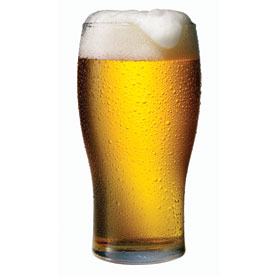
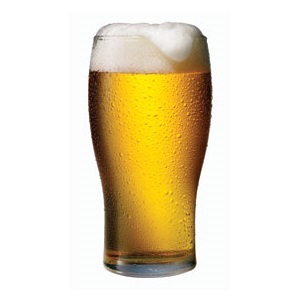
Improve README + Add step 3 + html fix (thumbnail) + resize default image for new beer

diff --git a/step1/index.html b/step1/index.html
@@ -14,32 +14,34 @@
         <input ng-model="query" class="form-control" placeholder="search box">
       </div>
       <div class="row">
-        <beer-thumbnail ng-repeat="aBeer in beerCtrl.beers| filter:query"> </beer-thumbnail>
-        <div class="col-md-4 thumbnail">
+        <beer-thumbnail ng-repeat="aBeer in beerCtrl.beers| filter:query"></beer-thumbnail>
+        <div class="col-md-4">
+          <div class="thumbnail">
             <form name="beerForm" ng-submit="beerForm.$valid && beerCtrl.addOrUpdate(beerCtrl.currentBeer)" novalidate>
               <div class="form-group">
                 <label for="name">Name*</label>
-                <input type="text" class="form-control" id="name" ng-model="beerCtrl.currentBeer.name" required>
+                <input class="form-control" id="name" ng-model="beerCtrl.currentBeer.name" required type="text">
               </div>
               <div class="form-group">
                 <label for="image">Image*</label>
-                <input type="text" class="form-control" id="image" ng-model="beerCtrl.currentBeer.img" required>
+                <input class="form-control" id="image" ng-model="beerCtrl.currentBeer.img" required type="text">
               </div>
               <div class="form-group">
                 <label for="Alcohol">Alcohol*</label>
-                <input type="text" class="form-control" id="Alcohol" ng-model="beerCtrl.currentBeer.alcohol" required>
+                <input class="form-control" id="Alcohol" ng-model="beerCtrl.currentBeer.alcohol" required type="text">
               </div>
               <div class="form-group">
                 <label for="description">Description</label>
                 <textarea class="form-control" ng-model="beerCtrl.currentBeer.description" rows="3"></textarea>
               </div>
-              <input type="hidden" id="id" ng-model="beerCtrl.currentBeer.id">
-              <button ng-hide="beerCtrl.currentBeer.id" type="submit" class="btn btn-primary" ng-disabled="beerForm.$invalid" >Add</button>
-              <button ng-show="beerCtrl.currentBeer.id" type="submit" class="btn btn-warning" ng-disabled="beerForm.$invalid" >Update</button>
-              <button ng-show="beerCtrl.currentBeer.id" ng-click="beerCtrl.reset()" class="btn btn-default">Cancel</button>
-            <br>
-            <pre>Form is {{beerForm.$valid}}<br>beer = {{ beerCtrl.currentBeer | json }}</pre>
-          </form>
+              <input id="id" ng-model="beerCtrl.currentBeer.id" type="hidden">
+              <button class="btn btn-primary" ng-disabled="beerForm.$invalid" ng-hide="beerCtrl.currentBeer.id" type="submit">Add</button>
+              <button class="btn btn-warning" ng-disabled="beerForm.$invalid" ng-show="beerCtrl.currentBeer.id" type="submit">Update</button>
+              <button class="btn btn-default" ng-click="beerCtrl.reset()" ng-show="beerCtrl.currentBeer.id">Cancel</button>
+              <br>
+              <pre>Form is {{beerForm.$valid}}<br>beer = {{ beerCtrl.currentBeer | json }}</pre>
+            </form>
+          </div>
         </div>
       </div>
 

diff --git a/step3/public/index.html b/step3/public/index.html
@@ -3,7 +3,7 @@
   <head>
     <meta charset="utf-8">
     <title>Beer app</title>
-    <link href="../node_modules/bootstrap/dist/css/bootstrap.min.css" rel="stylesheet" type="text/css">
+    <link href="../../node_modules/bootstrap/dist/css/bootstrap.min.css" rel="stylesheet" type="text/css">
     <link href="styles.css" rel="stylesheet" type="text/css">
   </head>
   <body class="container" ng-app="beerApp" ng-controller="BeerController as beerCtrl">
@@ -12,7 +12,7 @@
       <h1>Beer collection</h1>
       <div class="row">
         <button class="btn btn-primary" ng-click="beerCtrl.reinitializeApp()">Reinitialize</button>
-        <input ng-model="query" class="form-control" placeholder="search box">
+        <input class="form-control" ng-model="query" placeholder="search box">
       </div>
       <div class="row">
         <beer-thumbnail ng-repeat="aBeer in beerCtrl.beers| filter:query"></beer-thumbnail>
@@ -35,19 +35,18 @@
                 <label for="description">Description</label>
                 <textarea class="form-control" ng-model="beerCtrl.currentBeer.description" rows="3"></textarea>
               </div>
-              <input id="id" ng-model="beerCtrl.currentBeer.id" type="hidden">
-              <button class="btn btn-primary" ng-disabled="beerForm.$invalid" ng-hide="beerCtrl.currentBeer.id" type="submit">Add</button>
-              <button class="btn btn-warning" ng-disabled="beerForm.$invalid" ng-show="beerCtrl.currentBeer.id" type="submit">Update</button>
-              <button class="btn btn-default" ng-click="beerCtrl.reset()" ng-show="beerCtrl.currentBeer.id">Cancel</button>
+              <input id="id" ng-model="beerCtrl.currentBeer._id" type="hidden">
+              <button class="btn btn-primary" ng-disabled="beerForm.$invalid" ng-hide="beerCtrl.currentBeer._id" type="submit">Add</button>
+              <button class="btn btn-warning" ng-disabled="beerForm.$invalid" ng-show="beerCtrl.currentBeer._id" type="submit">Update</button>
+              <button class="btn btn-default" ng-click="beerCtrl.reset()" ng-show="beerCtrl.currentBeer._id">Cancel</button>
               <br>
               <pre>Form is {{beerForm.$valid}}<br>beer = {{ beerCtrl.currentBeer | json }}</pre>
             </form>
           </div>
         </div>
       </div>
-    </div>
 
-    <script charset="utf-8" src="../node_modules/angular/angular.js"></script>
-    <script charset="utf-8" src="app.js"></script>
-  </body>
-</html>
+      <script charset="utf-8" src="../../node_modules/angular/angular.js"></script>
+      <script charset="utf-8" src="app.js"></script>
+    </body>
+  </html>

diff --git a/step3/server/server.js b/step3/server/server.js
@@ -1,0 +1,78 @@
+var express = require('express');
+var mongoose = require('mongoose');
+var cors = require('cors'); //authorize multiple ports
+var bodyParser = require('body-parser');
+
+mongoose.connect('mongodb://localhost/beers');
+
+var beerSchema = {
+  name: String,
+  img: String,
+  alcohol: String,
+  description: String
+};
+
+var Beer = mongoose.model('Beer', beerSchema, 'beer');
+
+var app = express();
+app.use(cors());
+app.use(bodyParser.urlencoded({ extended: false }));
+app.use(bodyParser.json());
+
+app.get('/beers', function(req, res) {
+  Beer.find({}, function(err, doc) {
+    res.send(doc);
+  });
+});
+
+app.get('/beers/:id', function(req, res) {
+  var beerId = req.params.id;
+  if (beerId) {
+    Beer.findOne({
+      _id: beerId
+    }, function(err, doc) {
+      res.send(doc);
+    });
+  }
+});
+
+app.put('/beers/:id', function(req, res) {
+  var beerId = req.params.id;
+  if (beerId === req.body._id) {
+    Beer.findByIdAndUpdate(beerId, req.body, function(err, beer) {
+      if (err) {
+        throw err;
+      }
+      res.status(200).json(beer);
+    });
+  }
+});
+
+app.delete('/beers/:id', function(req, res) {
+  var beerId = req.params.id;
+  if (beerId) {
+    Beer.findByIdAndRemove(beerId, function(err) {
+      if (err) {
+        res.send(err);
+      }
+    });
+    res.status(200).json({ message: 'Successfully deleted' });
+  }
+});
+
+app.post('/beers', function(req, res) {
+  var beerSend = Beer(req.body);
+
+  beerSend.save(function(err, newBeer) {
+    if (err) {
+      res.send(500, err);
+    }
+    res.status(201).json(newBeer);
+  });
+});
+
+app.get('/', function(req, res) {
+  res.send("Hello beer!");
+});
+
+app.listen(3000);

diff --git a/step3/public/app.js b/step3/public/app.js
@@ -13,14 +13,14 @@
 
   beerApp.controller("BeerController", ['$http', function($http) {
 
-    var apiSparkParams = {
-      endPoint: "https://maxpou.apispark.net/v1"
+    var apiParams = {
+      endPoint: "http://scotch.local:3000"
     };
 
     var app = this;
     app.beers = [];
 
-    $http.get(apiSparkParams.endPoint + "/beers/").then(
+    $http.get(apiParams.endPoint + "/beers/").then(
       function successCallback(callback) {
         app.beers = callback.data;
       },
@@ -34,10 +34,10 @@
     };
 
     this.addOrUpdate = function(aBeer) {
-      if (aBeer.id) {
-        $http.put(apiSparkParams.endPoint + '/beers/' + aBeer.id, aBeer);
+      if (aBeer._id) {
+        $http.put(apiParams.endPoint + '/beers/' + aBeer._id, aBeer);
       } else {
-        $http.post(apiSparkParams.endPoint + '/beers/', aBeer).then(
+        $http.post(apiParams.endPoint + '/beers/', aBeer).then(
           function successCallback(callback) {
             aBeer = callback.data;
             app.beers.push(aBeer);
@@ -58,7 +58,7 @@
     };
 
     this.remove = function(aBeer) {
-      $http.delete(apiSparkParams.endPoint + '/beers/' + aBeer.id).then(
+      $http.delete(apiParams.endPoint + '/beers/' + aBeer._id).then(
         function successCallback(callback) {
           var elementIndex = app.beers.map(function getId(e) {
             return e.id;
@@ -76,7 +76,7 @@
       });
 
       //Recreate all beer :)
-      $http.get('../step1/beer-list.json').success(function(data) {
+      $http.get('../../step1/beer-list.json').success(function(data) {
         var beerWithoutId = data.map(function deleteId(aBeer) {
           aBeer.id = null;
           return aBeer;

diff --git a/step3/public/beer-thumbnail.html b/step3/public/beer-thumbnail.html
@@ -1,12 +1,12 @@
 <div class="col-sm-6 col-md-4">
   <div class="thumbnail">
-    <img class="img-rounded" ng-src="{{aBeer.img}}">
+    <img class="img-rounded" ng-src="../{{aBeer.img}}">
     <div class="caption">
       <h3>{{aBeer.name}} ({{aBeer.alcohol}}°)</h3>
       <p>
         <em>{{aBeer.description | limitTo: 35 }}{{aBeer.description.length > 25 ? '...' : ''}}</em>
       </p>
-      <p ng-if="aBeer.id">
+      <p ng-if="aBeer._id">
         <a class="btn btn-warning" ng-click="beerCtrl.modifyForm(aBeer)">
           <span aria-hidden="true" class="glyphicon glyphicon glyphicon-pencil"></span>
           Modify</a>

diff --git a/step3/public/styles.css b/step3/public/styles.css
@@ -1,0 +1,6 @@
+.ng-invalid.ng-dirty {
+  border-color: red;
+}
+.ng-valid.ng-dirty {
+  border-color: green;
+} 

diff --git a/readme.md b/readme.md
@@ -1,10 +1,10 @@
-# Beer app
+# :beer: Beer app :beer:
 
 I really want to learn MEAN Stack. But I want to do this step by step.
-So I've decided to proceed in 3 steps :
+So I've decided to proceed in 3 steps:
 
 1. AngularJS with a json file
-2. AngularJs + Web API (APISpark)
+2. AngularJs + Web API (by using APISpark)
 3. MEAN Stack (Mongodb, Express, AngularJs & Node.js)
 
 I also decide do work with beer, because it's funniest than contact, products, todo-task, ...
@@ -12,14 +12,20 @@ Thanks to [@lostinbrittany](https://twitter.com/lostinbrittany) for his json fil
 
 I also use twitter Bootstrap because I won't spend time to code css.
 
-*If you found a typo/mistake, please fork and edit this post. Thank you :)*
+*If you found a typo or a mistake somewhere, please fork and edit this post. Thank you :)*
 
-## Step 1 : AngularJs - json file
+## Installation
 
-Here, you can manage your beers with CRUD operations.
+1. Download the code
+2. Install the npm modules: ```npm install```  
+Use the ```--no-bin-links``` argument if it fails.
+
+## Step 1: AngularJs - json file
+
+Here, you can manage your beers with CRUD operations.  
 Note that all fields are mandatory (except description).
 
-## Step 2 : AngularJs + Web API (APISpark)
+## Step 2: AngularJs + Web API (APISpark)
 
 ![APISpark logo](http://i1.wp.com/restlet.dreamhosters.com/wp-content/uploads/2012/08/0111_apispark_logo.png?resize=352%2C120)
 
@@ -29,14 +35,14 @@ Here, my Web API is **public**. So you can access to my [dashboard](https://apis
 
 If data are empty, or if you find errors, please reinitialize the database (**Reinitialize** button).
 
-Note : I use [promise paradigm](https://github.com/getify/You-Dont-Know-JS/blob/master/async%20&%20performance/ch3.md) here because it's a very powerful feature ;-)
+Note: [Further reading about JS Promise](https://github.com/getify/You-Dont-Know-JS/blob/master/async%20&%20performance/ch3.md) (because it's a so powerful feature ;-))
 
-## Step 3 : MEAN Stack (Mongodb, Express, AngularJs & Node.js)
+## Step 3: MEAN Stack (Mongodb, Express, AngularJs & Node.js)
 
-Mongodb :
-Import with : ```mongoimport --db simple --collection people --jsonArray db.json```
-
-NodeJS :
-* Install express dependencies : ```npm install express --no-bin-links```
-* Install other dependencies : ```npm install ...```
-* Launch server : ```node server.js```
+1. Initialize database (2 ways):
+  * Import data with json file: ```mongoimport --db beers --collection beers --jsonArray beer-list.json```
+  * Or : Use the *reinitialize button*
+2. In the server/server.js file, change the endpoint according to your configuration (replace *scotch.local:3000* to something like *localhost:3000*).  
+3. Start the server: ```node path/to.../server/server.js```.
+4. Visit the application in your browser at http://localhost:3000/ (you will see "Hello beer!")
+5. Enjoy beer :beer:
